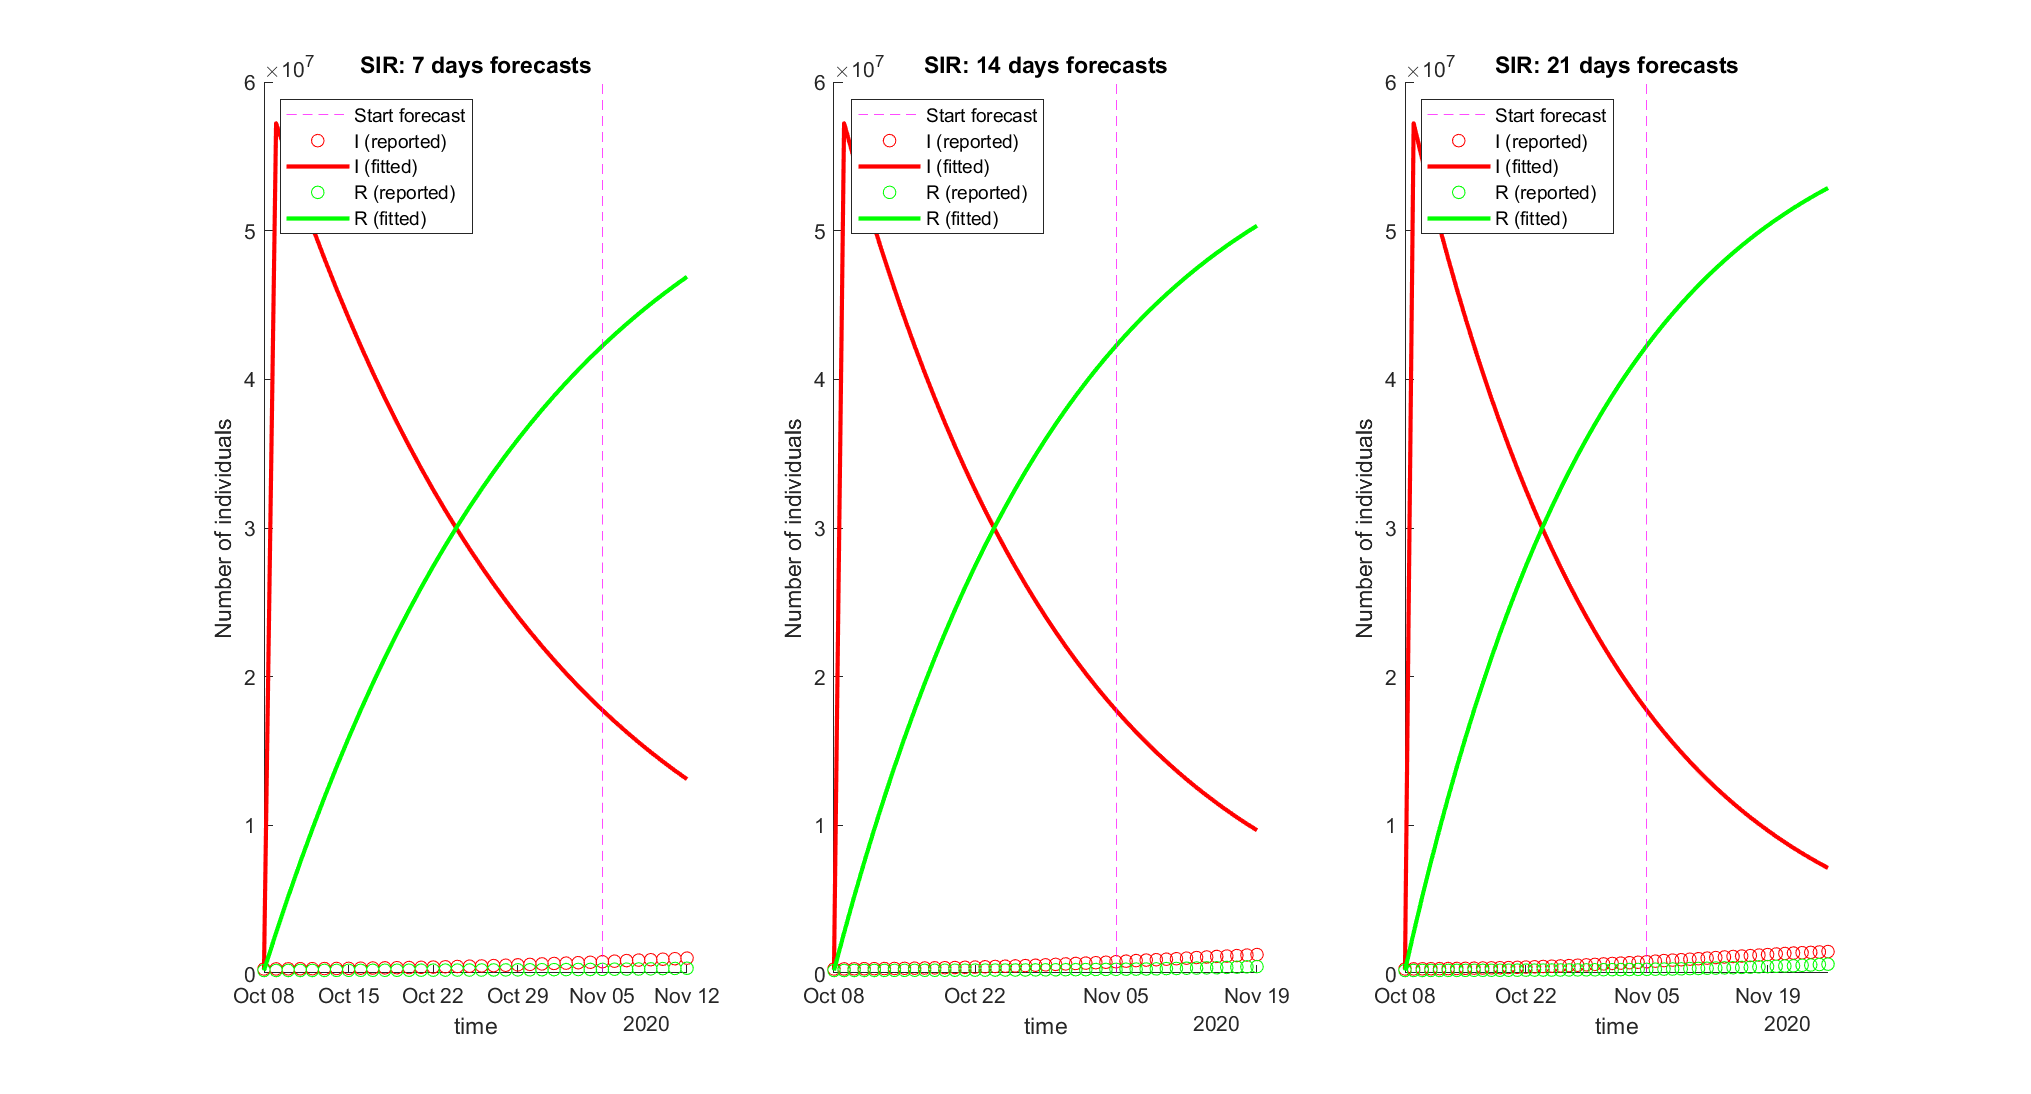
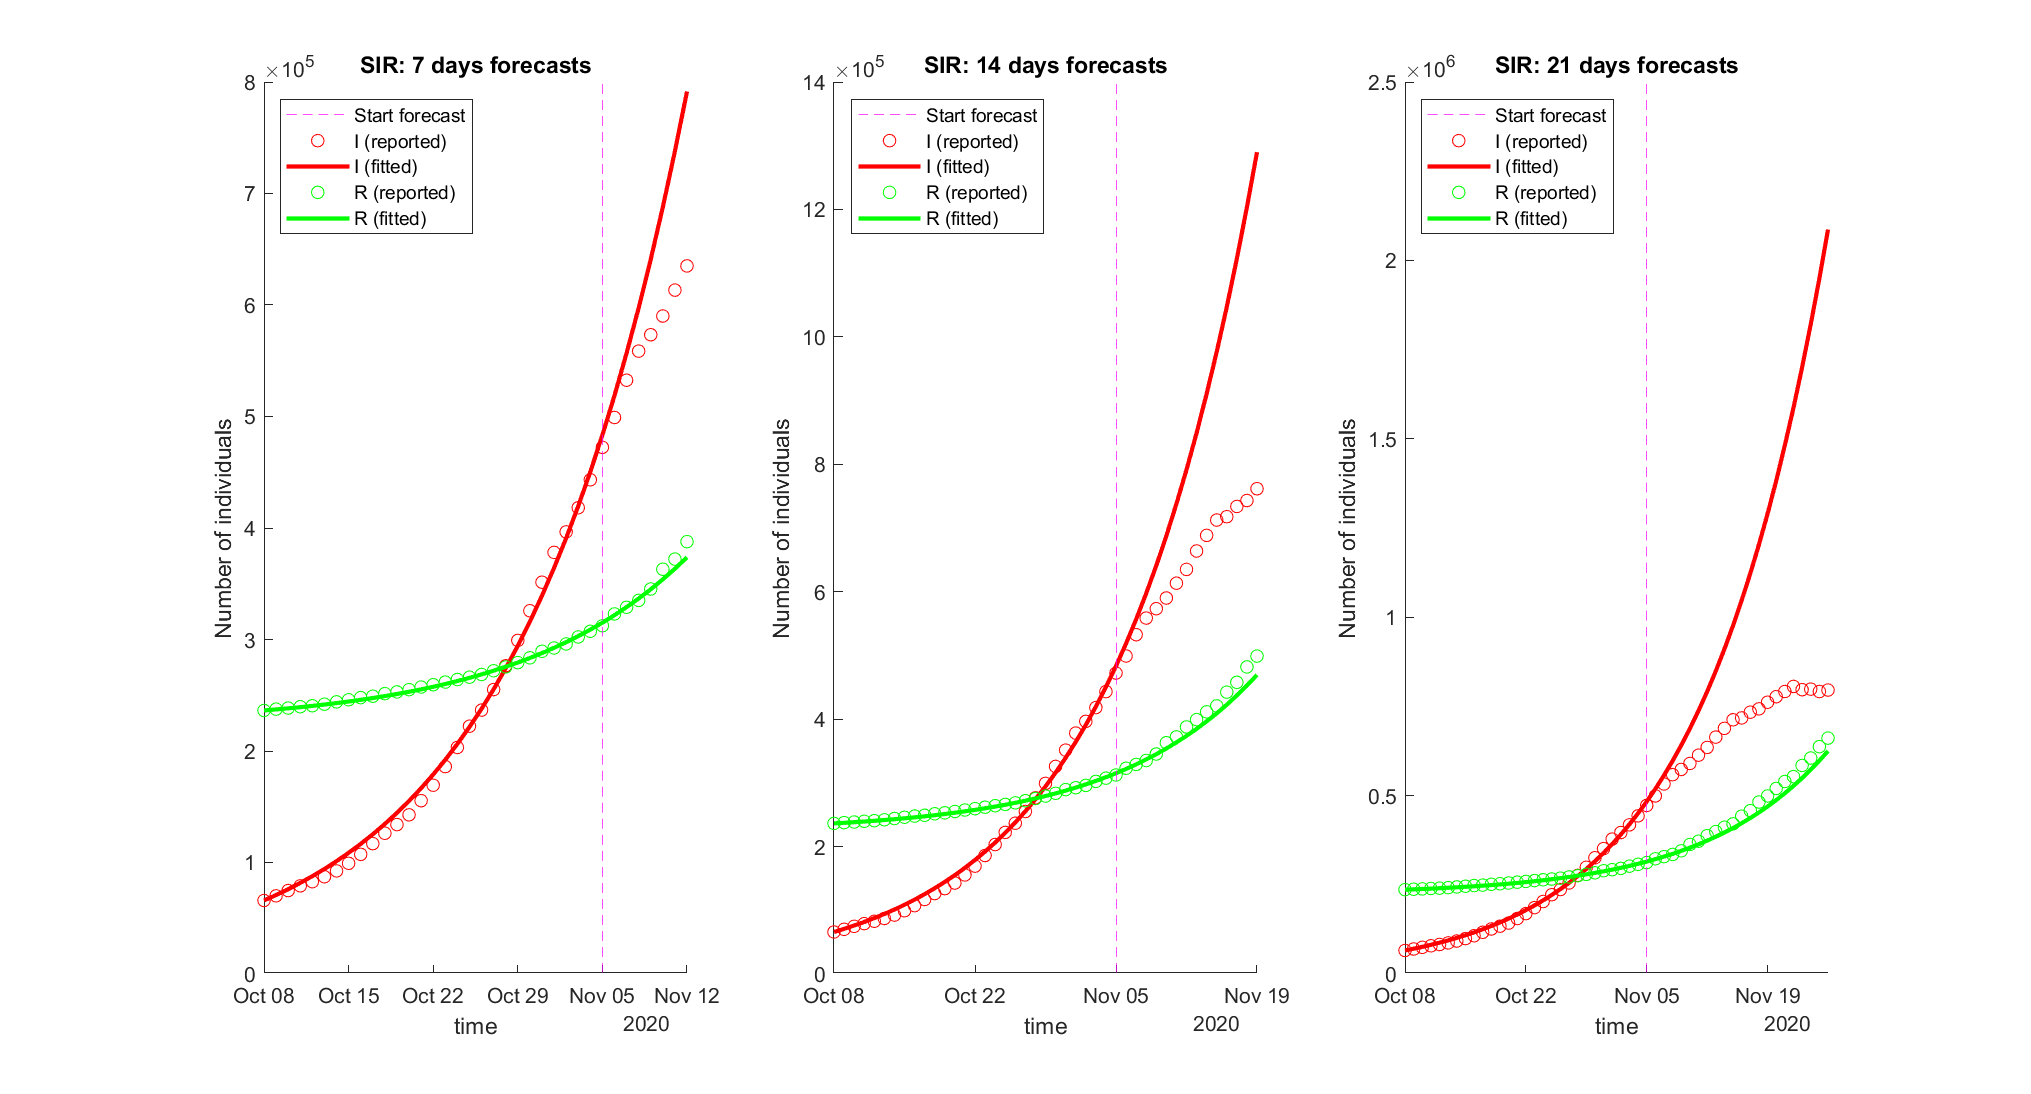
Update plots

diff --git a/main.m b/main.m
@@ -19,7 +19,8 @@ addpath('./models/SEIIRHD');
 sizes = size(dates);
 size_data = sizes(2);
 N = 60.*10^6;
-
+Nm = 300516;
+Ns = 1611621;
 %% PLOT OVERVIEW DATA
 % da rifare prima della consegna
 plot_data(data, dates, N, 1, size_data, "complete");
@@ -39,7 +40,7 @@ plot_data(dataSardegna, datesSardegna(t0:tf), N, t0, tf, "Sardegna");
 beta0 = 0.962/N;  
 gamma0 = 0.37; 
 
-% adimensional SEIR model for fitting
+% adimensional SIR model for fitting
 % We divide every variable by N
 % s = S/N, e= E/N etc.
 % [s, i, r]
@@ -69,7 +70,34 @@ fprintf("--- SIR FITTING DONE --- \n");
 fprintf("beta: %f, gamma: %f \n", p_SIR(1), p_SIR(2));
 %% PLOT SIR
 tp = [7,14, 21];
-plot_SIR(X_SIR, X0_ad_SIR, N, p_SIR, dates, t0, tf, tp);
+plot_SIR(X_SIR, X0_ad_SIR, N, p_SIR, dates, t0, tf, tp,"d");
+%% FITTING SIR MODEL x MOLISE
+beta0m = 0.962/Nm;  
+gamma0m = 0.37; 
+
+Im = cast((dataMolise.totale_positivi), 'double'); 
+Rm = cast((dataMolise.dimessi_guariti), 'double');
+Sm = Nm-Im-Rm;
+Xm_SIR = [Sm, Im, Rm];
+Xm_ad_SIR = [Sm, Im, Rm]/Nm;
+
+% initial conditions
+tm0 = find(dates=="10-Jan-2021"); %01
+tmf = find(dates=="11-Feb-2021"); 
+Im0 = Im(tm0);
+Rm0 = Rm(tm0);
+Sm0 = Nm-Im0-Rm0;
+Xm0_ad_SIR = [Sm0 Im0 Rm0]/Nm;
+
+beta0m = beta0m*Nm;
+pm0_SIR = [beta0m, gamma0m];
+
+pm_SIR = fit_SIR(Xm_ad_SIR, Xm0_ad_SIR, pm0_SIR, tm0, tmf);
+fprintf("--- SIR x MOLISE FITTING DONE --- \n");
+fprintf("beta: %f, gamma: %f \n", pm_SIR(1), pm_SIR(2));
+%% PLOT SIR x MOLISE
+tp = [7, 14, 21];
+plot_SIR(Xm_SIR, Xm0_ad_SIR, Nm, pm_SIR, datesMolise, tm0, tmf, tp, "Molise");
 %% FITTING SEIR MODEL
 % [S, E, I, R]
 
@@ -108,10 +136,37 @@ fprintf("--- SEIR FITTING DONE --- \n");
 fprintf("beta: %f, alpha: %f, gamma: %f \n", p_SEIR(1), p_SEIR(2), p_SEIR(3));
 %% PLOT SEIR
 tp = [7,14, 21];
-plot_SEIR(X_SEIR, X0_ad_SEIR, N, p_SEIR, dates, t0, tf, tp);
-% RMSE train E: 24373.394744 
-% RMSE train I: 243733.947545 
-% RMSE train R: 265378.113719 
+plot_SEIR(X_SEIR, X0_ad_SEIR, N, p_SEIR, dates, t0, tf, tp,"d");
+%% FITTING SEIR MODEL x MOLISE
+% [S, E, I, R]
+
+Em = 0.1*(Im); 
+Sm = Nm-Im-Em-Rm;
+Xm = [Sm, Em, Im, Rm];
+Xm_SEIR = [Sm, Em, Im, Rm];
+Xm_ad_SEIR = [Sm, Em, Im, Rm]/Nm;
+
+Em0 = Em(tm0);
+Im0 = Im(tm0);
+Rm0 = Rm(tm0);
+Sm0 = Nm-Em0-Im0-Rm0;
+Xm0_ad_SEIR = [Sm0 Em0 Im0 Rm0]/Nm;
+
+Sm0 = Nm;
+tau = 3; %paper SEIR
+alpham0=1/tau;
+
+% initial beta and gamma are taken from the previous simulation results 
+betam0 = p_SIR(1);
+gammam0 = p_SIR(2);
+pm0_SEIR = [betam0, alpham0, gammam0];
+
+pm_SEIR = fit_SEIR(Xm_ad_SEIR, Xm0_ad_SEIR, pm0_SEIR, tm0, tmf);
+fprintf("--- SEIR x MOLISE FITTING DONE --- \n");
+fprintf("beta: %f, alpha: %f, gamma: %f \n", pm_SEIR(1), pm_SEIR(2), pm_SEIR(3));
+%% PLOT SEIR x MOLISE
+tp = [7, 14, 21];
+plot_SEIR(Xm_SEIR, Xm0_ad_SEIR, Nm, pm_SEIR, dates, tm0, tmf, tp,"Molise");
 %% FITTING SEIIR MODEL
 
 S = N-E-I-R;
@@ -144,7 +199,7 @@ fprintf("f0: %f, alpha: %f, gamma: %f, beta_a: %f, beta_s: %f, beta_e: %f \n"...
     , p_SEIIR(1), p_SEIIR(2), p_SEIIR(3), p_SEIIR(4), p_SEIIR(5), p_SEIIR(6));
 %% PLOT SEIIR
 tp = [7,14, 21];
-plot_SEIIR(X_SEIIR, X0_ad_SEIIR, N, p_SEIIR, dates, t0, tf, tp);
+plot_SEIIR(X_SEIIR, X0_ad_SEIIR, N, p_SEIIR, dates, t0, tf, tp, "d");
 %% FITTING SEIIRHD MODEL
 
 S = N-E-I-R;
@@ -187,4 +242,4 @@ fprintf("f0: %f, alpha: %f, gamma: %f, \n beta_a: %f, beta_s: %f, beta_e: %f, \n
 
 %% PLOT SEIIRHD
 tp = [7,14, 21];
-plot_SEIIRHD(X_SEIIRHD, X0_ad_SEIIRHD, N, p_SEIIRHD, dates, t0, tf, tp);
+plot_SEIIRHD(X_SEIIRHD, X0_ad_SEIIRHD, N, p_SEIIRHD, dates, t0, tf, tp, "d");

diff --git a/models/SEIIRHD/plot_SEIIRHD.m b/models/SEIIRHD/plot_SEIIRHD.m
@@ -1,4 +1,4 @@
-function plot_SEIIRHD(X, X0, N, p, dates, t0, tf, tp)
+function plot_SEIIRHD(X, X0, N, p, dates, t0, tf, tp, name)
 
 % Input 
 % X       data: S, I, R
@@ -102,4 +102,10 @@ for i = 1:size(tp, 2)
     
     
 end
-saveas(gcf,'./results/SEIIRHD_fitting.png')
+if name == "Molise"
+    saveas(gcf,'./results/SEIIRHD_Molise_fitting.png')
+elseif name == "Sardegna"
+    saveas(gcf,'./results/SEIIRHD_Sardegna_fitting.png')
+else
+    saveas(gcf,'./results/SEIIRHD_fitting.png')
+end

diff --git a/models/SEIIR/plot_SEIIR.m b/models/SEIIR/plot_SEIIR.m
@@ -1,4 +1,4 @@
-function plot_SEIIR(X, X0, N, p, dates, t0, tf, tp)
+function plot_SEIIR(X, X0, N, p, dates, t0, tf, tp, name)
 
 % Input 
 % X       data: S, E, Ia, Is, R
@@ -84,4 +84,10 @@ for i = 1:size(tp, 2)
 
 end
 
-saveas(gcf,'./results/SEIIR_fitting.png')
+if name == "Molise"
+    saveas(gcf,'./results/SEIIR_Molise_fitting.png')
+elseif name == "Sardegna"
+    saveas(gcf,'./results/SEIIR_Sardegna_fitting.png')
+else
+    saveas(gcf,'./results/SEIIR_fitting.png')
+end

diff --git a/models/SEIR/plot_SEIR.m b/models/SEIR/plot_SEIR.m
@@ -1,4 +1,4 @@
-function plot_SEIR(X, X0, N, p, dates, t0, tf, tp)
+function plot_SEIR(X, X0, N, p, dates, t0, tf, tp, name)
 
 % Input 
 % X       data: S, I, R
@@ -77,4 +77,10 @@ for i = 1:size(tp, 2)
     
 end
 
-saveas(gcf,'./results/SEIR_fitting.png')
+if name == "Molise"
+    saveas(gcf,'./results/SEIR_Molise_fitting.png')
+elseif name == "Sardegna"
+    saveas(gcf,'./results/SEIR_Sardegna_fitting.png')
+else
+    saveas(gcf,'./results/SEIR_fitting.png')
+end

diff --git a/models/SIR/plot_SIR.m b/models/SIR/plot_SIR.m
@@ -1,4 +1,4 @@
-function plot_SIR(X, X0, N, p, dates, t0, tf, tp)
+function plot_SIR(X, X0, N, p, dates, t0, tf, tp, name)
 
 % Input 
 % X       data: S, I, R
@@ -59,5 +59,10 @@ for i = 1:size(tp, 2)
     
 
 end
-
-saveas(gcf,'./results/SIR_fitting.png')
+if name == "Molise"
+    saveas(gcf,'./results/SIR_Molise_fitting.png')
+elseif name == "Sardegna"
+    saveas(gcf,'./results/SIR_Sardegna_fitting.png')
+else
+    saveas(gcf,'./results/SIR_fitting.png')
+end

diff --git a/data/getDataByRegion.m b/data/getDataByRegion.m
@@ -29,9 +29,6 @@ data_struct = cell2struct(C,{'data','stato', 'codice_regione','denominazione_reg
 
 % removing additional columns we will not use in our analysis
 data_struct = rmfield(data_struct, 'stato');
-data_struct = rmfield(data_struct, 'note');
-data_struct = rmfield(data_struct, 'note_test');
-data_struct = rmfield(data_struct, 'note_casi');
 
 % date format
 % from YYYY-MM-DDThh-mm to YYYY-MM-DD
